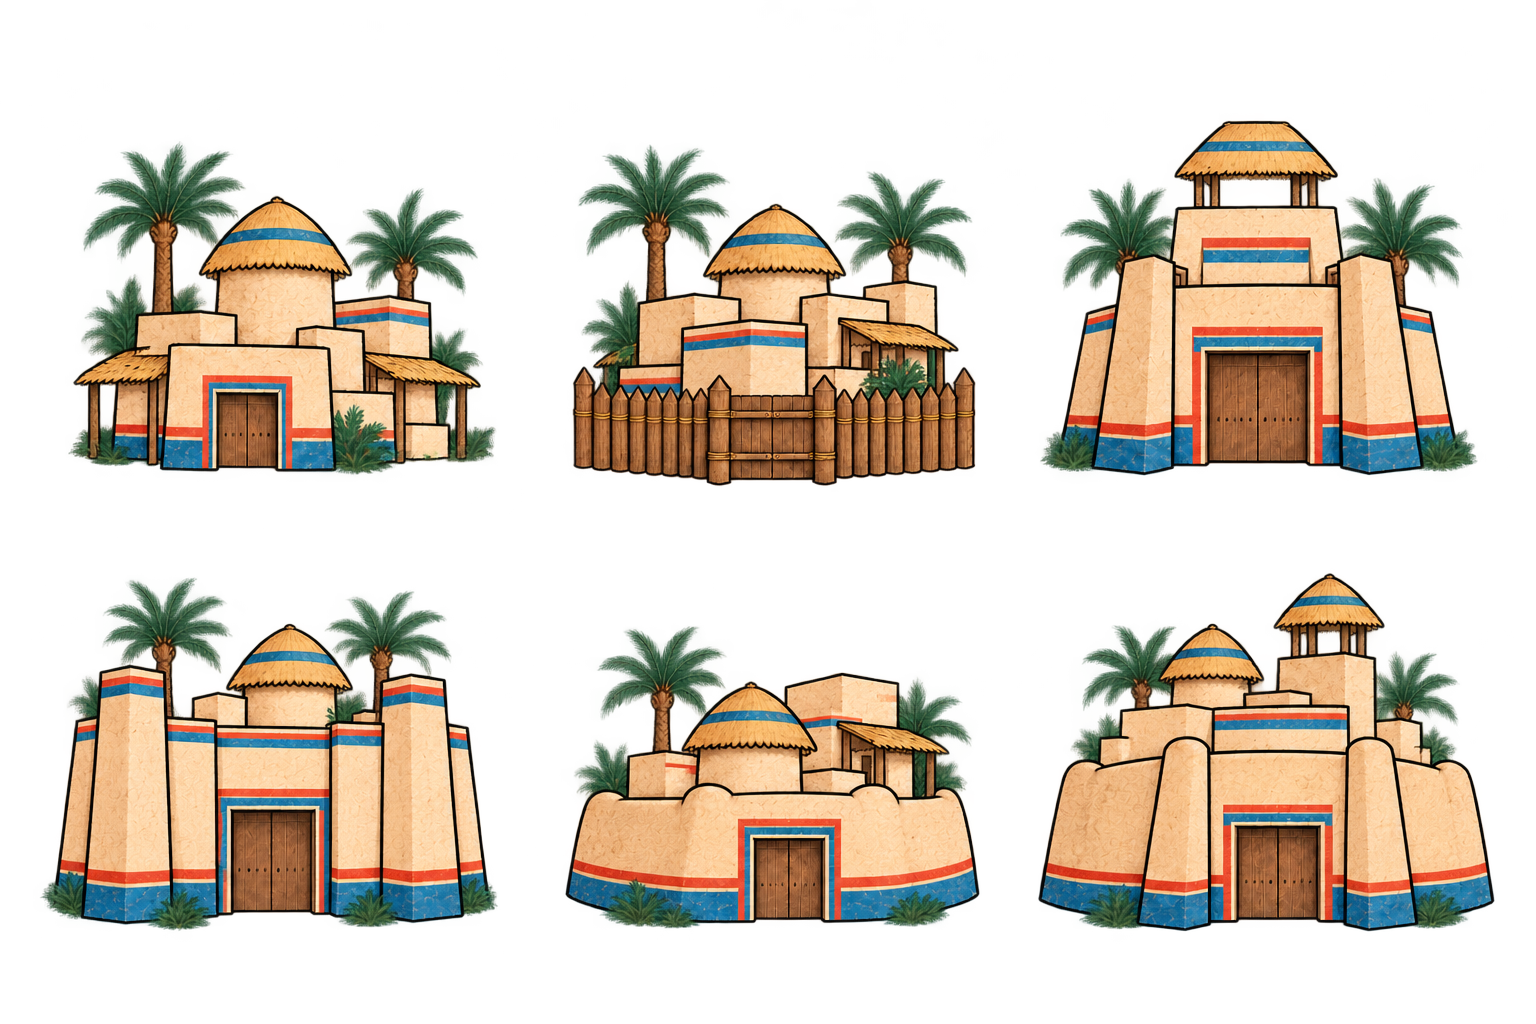
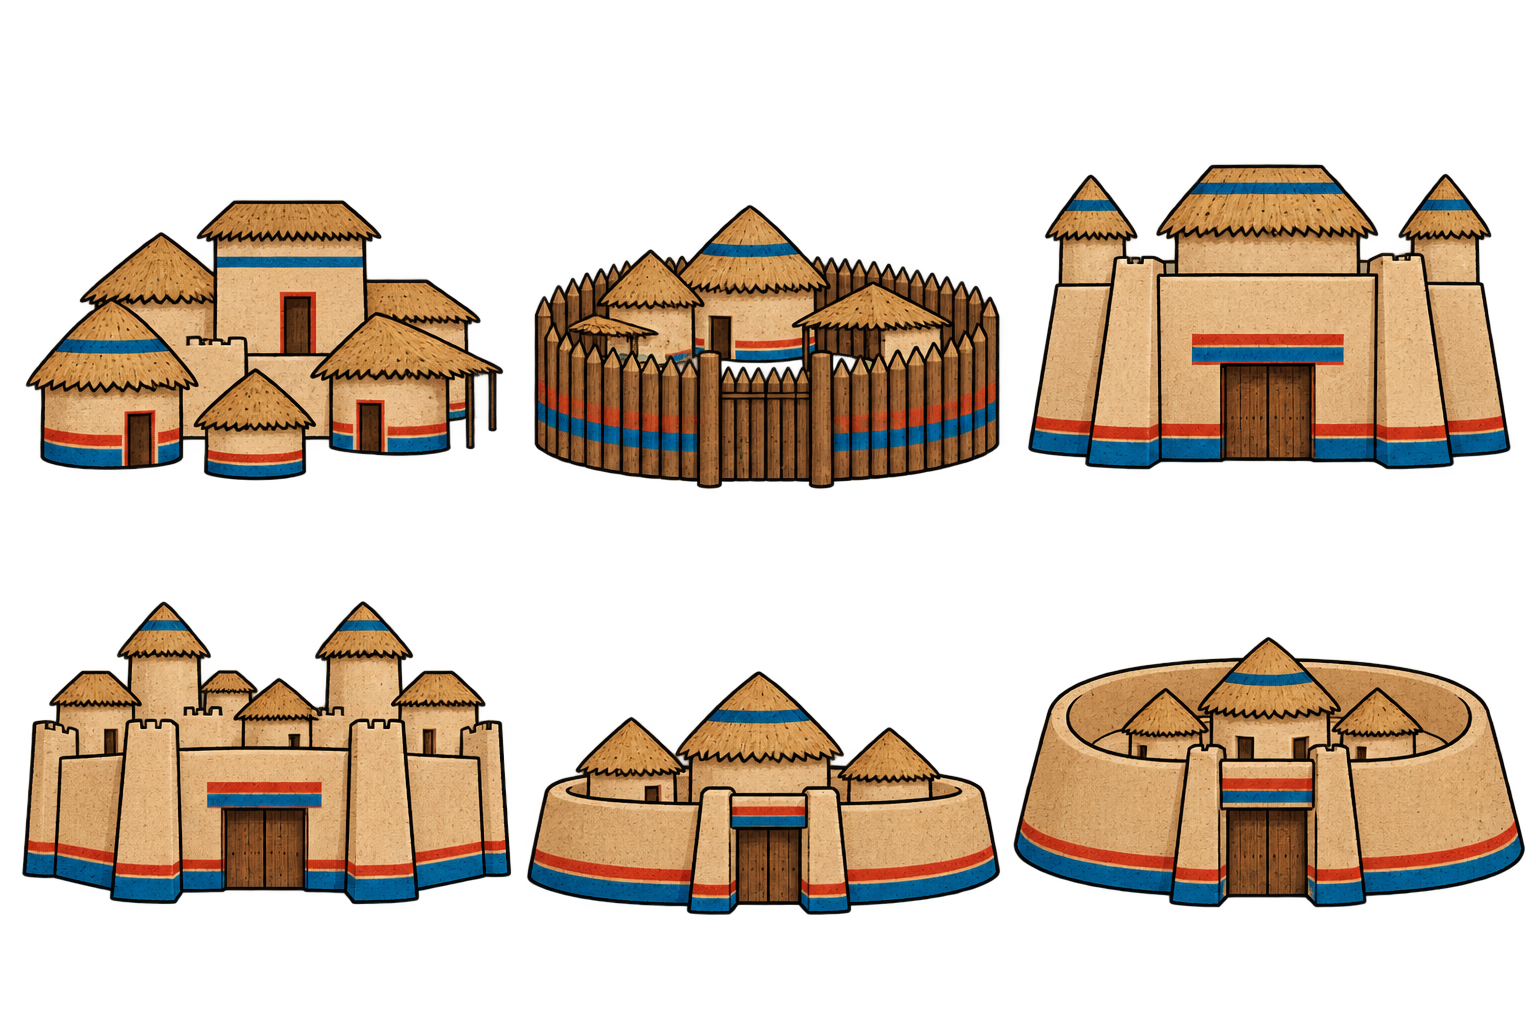
Keep city details beside the map

diff --git a/simulation/static/simulation/workspace.css b/simulation/static/simulation/workspace.css
@@ -23,10 +23,30 @@
   position: relative;
   height: 100%;
   padding: 0;
+  container-type: size;
 }
 .map-workspace {
   position: absolute;
   inset: 0;
+}
+.map-workspace:has(> .city-sheet) {
+  display: grid;
+  grid-template-columns: minmax(0, 1fr) minmax(22rem, 42%);
+  min-height: 0;
+}
+.map-workspace:has(> .city-sheet) > .realm-map {
+  position: relative;
+  inset: auto;
+  min-width: 0;
+  min-height: 0;
+}
+.map-workspace > .city-sheet {
+  position: relative;
+  inset: auto;
+  width: auto;
+  height: 100%;
+  border-radius: 0;
+  box-shadow: none;
 }
 .map-workspace > .realm-map {
   position: absolute;
@@ -497,6 +517,18 @@
   }
 }
 @media (max-width: 899px) {
+  .map-workspace:has(> .city-sheet) {
+    grid-template-columns: minmax(0, 1fr);
+    grid-template-rows: minmax(0, 45%) minmax(0, 55%);
+  }
+  .map-workspace > .city-sheet {
+    position: relative;
+    inset: auto;
+    width: 100%;
+    height: 100%;
+    max-height: none;
+    border-radius: 0;
+  }
   .context-sheet {
     position: fixed;
     z-index: 6;
@@ -524,6 +556,13 @@
   .map-workspace .map-sheet {
     padding: 4rem 0.5rem 6rem;
   }
+  .map-workspace:has(> .city-sheet) .map-sheet {
+    padding: 2rem 0.25rem 2rem;
+  }
+  .map-workspace:has(> .city-sheet) .map-instruction,
+  .map-workspace:has(> .city-sheet) .march-legend {
+    display: none;
+  }
   .map-workspace .map-legend {
     font-size: 0.8rem;
   }
@@ -549,6 +588,14 @@
   }
   .context-sheet .order-actions {
     margin-inline: -0.7rem;
+  }
+}
+@container (max-height: 28rem) {
+  .map-workspace > .city-sheet {
+    position: fixed;
+    inset: 44px 0 0;
+    height: auto;
+    z-index: 6;
   }
 }
 @media (prefers-reduced-motion: reduce) {

diff --git a/simulation/static/simulation/manuscript.css b/simulation/static/simulation/manuscript.css
@@ -1006,8 +1006,9 @@ input[type="number"] {
   margin: 0;
 }
 .map-frame {
-  background: var(--map-paper) url("illustrations/map/parchment.webp") center /
-    cover no-repeat;
+  background: url("illustrations/map/parchment.webp") center / cover no-repeat,
+    var(--map-paper) url("illustrations/papyrus.webp") center / 32rem repeat;
+  background-blend-mode: soft-light, normal;
   border: 1px solid #d4c9b7;
 }
 .map-sheet {

diff --git a/scripts/map_browser_smoke.py b/scripts/map_browser_smoke.py
@@ -50,6 +50,18 @@ def run_map_journeys():
                 page.locator('.map-city[href*="city=c1"]').focus()
                 page.keyboard.press("Enter")
                 expect(page.locator("#context-title")).to_have_text("Qasr")
+                for width in (1440, 390, 320):
+                    page.set_viewport_size(
+                        {"width": width, "height": 1000 if width == 1440 else 844}
+                    )
+                    board = page.locator(".map-workspace > .realm-map").bounding_box()
+                    sheet = page.locator(".city-sheet").bounding_box()
+                    if width == 1440:
+                        assert board["x"] + board["width"] <= sheet["x"] + 1
+                    else:
+                        assert board["y"] + board["height"] <= sheet["y"] + 1
+                    assert board["width"] > 0 and board["height"] > 0
+                page.set_viewport_size({"width": 1440, "height": 1000})
                 expect(page.locator(".map-connection.selected-road")).to_have_count(3)
                 expect(page.locator("#city-granary meter")).to_be_visible()
                 assert page.locator('[data-local-work="c1"]').count() > 1

diff --git a/simulation/static/simulation/illustrations/README.md b/simulation/static/simulation/illustrations/README.md
@@ -34,13 +34,8 @@ Final imagegen source: `exec-ba2fdf82-6582-4472-b957-4b9e8fcbf244.png`.
 `map/settlements.webp`: lossless RGBA 1536×1024 atlas, six 512×512 cells.
 Top row: open settlement, timber palisade, reinforced palace.
 Bottom row: stone walls, legacy earth wall, legacy great enclosure.
-Simplified frontal manuscript vignettes with faded worn-parchment texture, matching the original works illustrations; all vertical walls are plain, without arrow slits
-or small dark window marks. Only full-height enclosure gates remain. Flags are
-live SVG, using existing house emblems and viewer-relative green/red colors.
-Final imagegen source: `exec-538e109d-7a42-4dfd-8ac3-ba15e86b0ab1.png`.
-Both originals remain in `/workspace/generated_images`; production conversion uses
-ImageMagick WebP encoding without repainting. SVG square viewports clip each cell
-without stretching it or showing adjacent cells. The earlier realistic and isometric geometric city drafts
-and sparse sepia map drafts were rejected and are not shipped. The final city
-generation directly referenced `fortifications.jpg`, `granary.jpg`, `forge.jpg`
-and `yaara-atlas.png`, followed by a transparent cell-separation pass.
+Schematic frontal manuscript vignettes, regenerated from the fortifications
+illustration with fibrous papyrus texture and plain walls. Flags remain live SVG,
+using existing house emblems and viewer-relative green/red colors. SVG square
+viewports clip each cell without stretching it or showing adjacent cells.
+The map background layers the existing papyrus texture over the decorative terrain.

diff --git a/docs/map-workspace.md b/docs/map-workspace.md
@@ -133,3 +133,14 @@ settle after font reflow and same-document fragment changes; no game data is inv
 The latest artwork pass simplifies the six city silhouettes and uses faded pigments
 and worn parchment texture. Their transparent 512-pixel cells, fortification mapping,
 plain walls and separately drawn banners remain unchanged.
+
+## City sheet and papyrus revision
+
+Selecting a city reserves a right-hand column on wide screens and a lower pane
+on narrow screens, leaving the map available for selecting another city. With no
+city selected the map fills the workspace. The city sheet retains its scrolling
+body, fixed tabs and close control; mail retains its separate window. The map
+uses a papyrus texture and a freshly drawn six-cell schematic settlement atlas.
+This is presentation only: city selection, roads and public intelligence are
+unchanged. Browser verification covers city switching, close, responsive and
+keyboard navigation alongside the existing order journeys.
